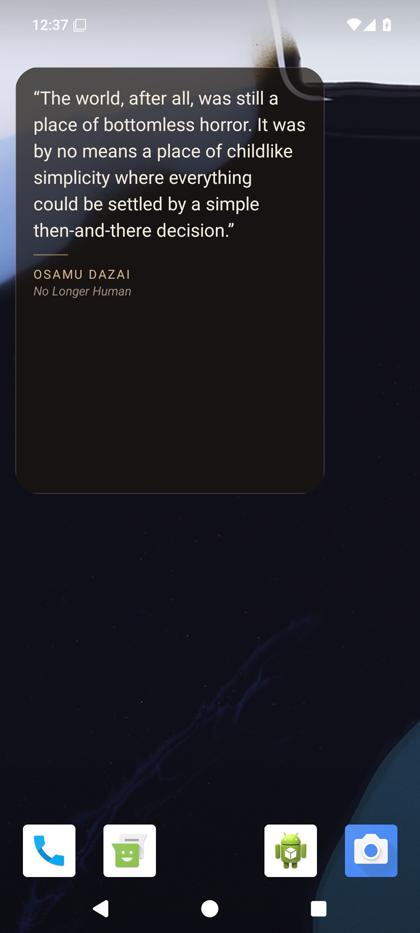
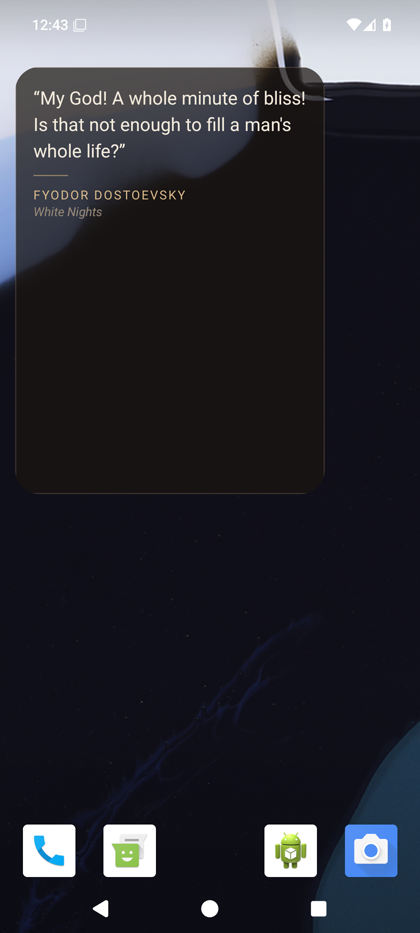
docs: capture the screenshots on a dedicated emulator (#8)
Both images now come from an emulator whose only third-party package is
dev.cernoh.quotes, so no other project can appear in them. The card shows
a White Nights line that fits without an ellipsis.

Closes #7

Changed region(s): [[0.0619, 0.0932, 0.7429, 0.3419], [0.1238, 0.0, 0.1548, 0.0311]]

diff --git a/docs/AGENTS.md b/docs/AGENTS.md
@@ -16,6 +16,10 @@ Owns the images that the top-level `README.md` shows.
 - An image MUST come from a real run of the app on a device or an emulator. A
   mock, a design tool drawing, or a screenshot of an older release is not
   allowed here.
+- Capture on an emulator dedicated to this project. Its home screen MUST carry
+  nothing but the stock launcher and this widget, so no other project appears in
+  the image. Check with `adb -s <serial> shell pm list packages -3`: the only
+  third-party package MUST be `dev.cernoh.quotes`.
 
 ## Work Guidance
 
